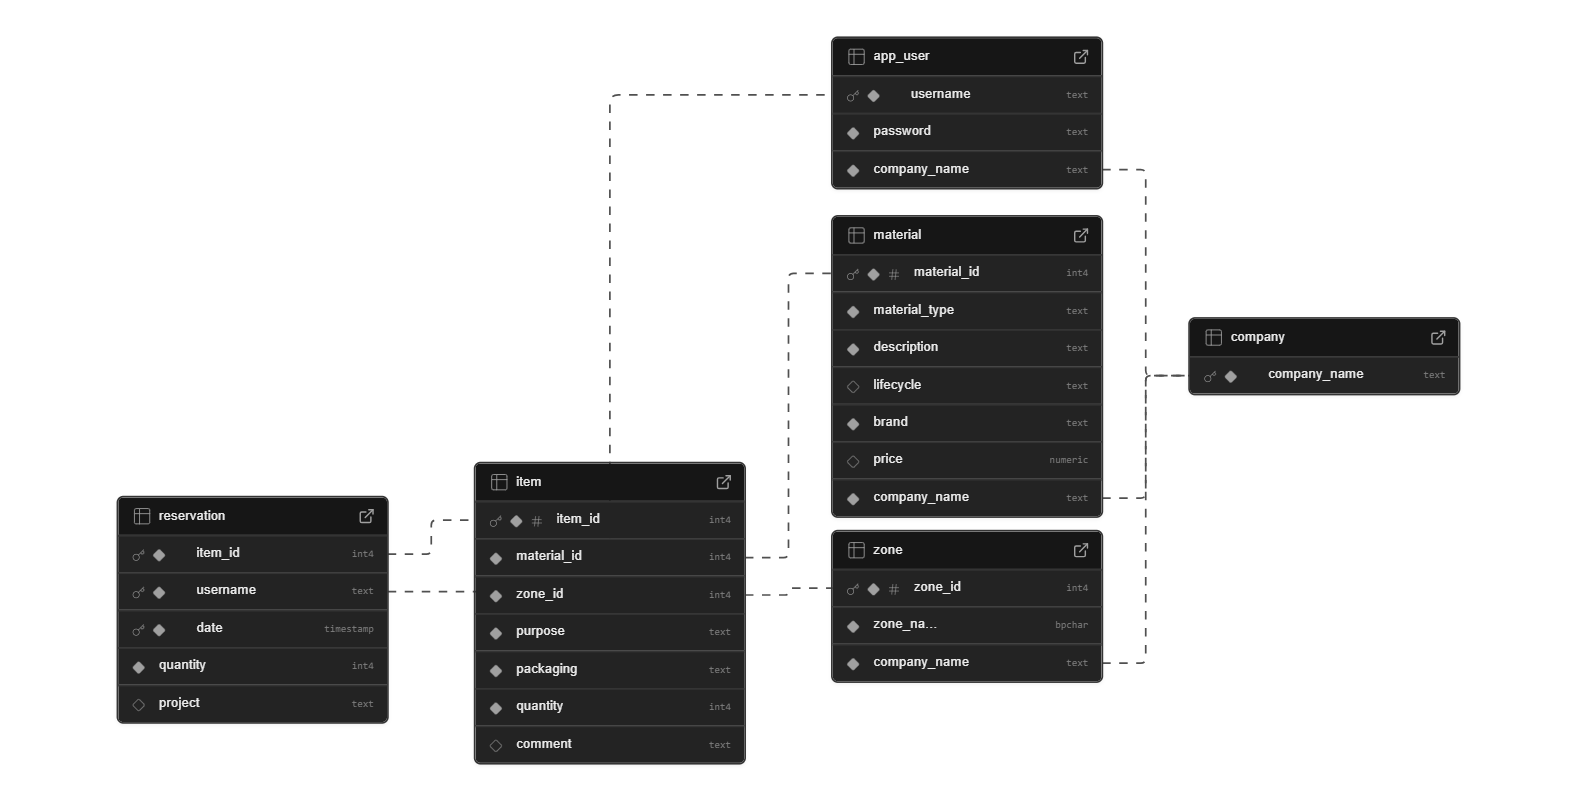
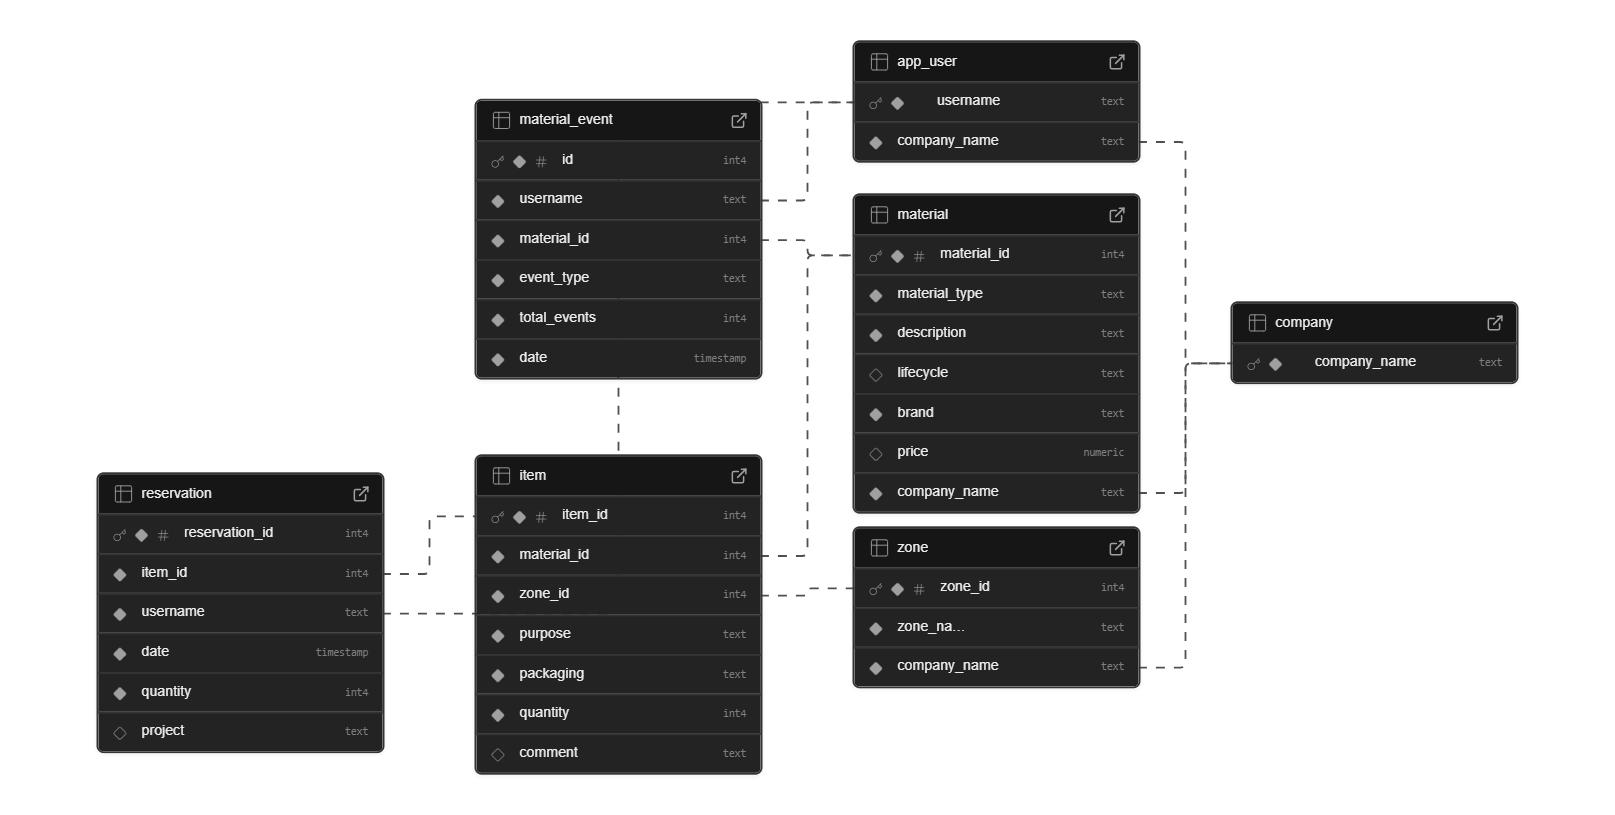
Ilyan (deel 1)

Changed region(s): [[0.2796, 0.0312, 0.9632, 0.9675], [0.0311, 0.5618, 0.2486, 0.9363], [0.435, 0.8115, 0.4661, 0.8427]]

diff --git a/app/templates/inventory.html b/app/templates/inventory.html
@@ -192,53 +192,34 @@
                 {# --- Header variations depending on context --- #}
 
                 {% if manual_items_view %}
-                    {# Manual material view (or brand+type search)#}
+                    {# Manual material view (zodat niet in else:)#}
                     <h3 class="item-title">
-                        {{ item.material.brand }} — {{ item.material.material_type }}
                     </h3>
                 
-                {% elif search_brand_type %}
-                    {# brand+type search #}
+                {% elif search_brand %}
+                    {# brand search (want Brand open)#}
                     <h3 class="item-title">
                         {{ item.material.material_type }}
-                    </h3>
-
-                {% elif is_search and search_brand_only %}
-                    {# Search by BRAND only: title shows brand; on cards show TYPE as primary info #}
-                    <h3 class="item-title">
-                        {{ item.material.material_type }}
-                    </h3>
-
-                {% elif is_search and search_type_only %}
-                    {# Search by TYPE/DESC only: title shows type; on cards show BRAND as primary info #}
-                    <h3 class="item-title">
-                        {{ item.material.brand }} — {{ item.material.material_type }}
-                    </h3>
-
-                {% elif is_search and search_misc_filters_only %}
-                    {# Search by zone/lifecycle/purpose/packaging only: title Inventory;
-                    show Brand - Type on cards #}
-                    <h3 class="item-title">
-                        {{ item.material.brand }} — {{ item.material.material_type }}
                     </h3>
 
                 {% else %}
-                    {# Default fallback: show Brand — Type #}
                     <h3 class="item-title">
                         {{ item.material.brand }} — {{ item.material.material_type }}
                     </h3>
+                    <div class="item-subtitle-row">
+                        <p class="item-subtitle">
+                            {{ item.material.description }}
+                        </p>
+                    </div>
+
                 {% endif %}
 
-                <div class="item-subtitle-row">
-                    <p class="item-subtitle">
-                        {{ item.material.description }}
-                    </p>
+
                     {% if item.item_id in recently_changed_items %}
                     <span class="chip chip-changed" title="Recently changed">
                         Changed
                     </span>
                     {% endif %}
-                </div>
 
                 {# --- The standard meta row (always present) --- #}
                 <div class="item-meta-row item-meta-spacing">

diff --git a/app/templates/login.html b/app/templates/login.html
@@ -1,10 +1,12 @@
-<!DOCTYPE html>
+<!DOCTYPE html> 
 <html lang="en">
 <head>
     <meta charset="UTF-8">
     <meta name="viewport" content="width=device-width, initial-scale=1.0">
-    <title>Inloggen</title>
+    <title>Login</title>
     <style>
+        * {
+        box-sizing: border-box;}
         body {
             font-family: Arial, sans-serif;
             background: linear-gradient(135deg, #1b2735, #090a0f);
@@ -20,7 +22,7 @@
             border-radius: 15px;
             box-shadow: 0 8px 32px rgba(0,0,0,0.4);
             backdrop-filter: blur(10px);
-            width: 350px;
+            width: 400px;
         }
         h2 {
             text-align: center;
@@ -28,7 +30,7 @@
             font-weight: 300;
             letter-spacing: 1px;
         }
-        input[type="text"], input[type="password"] {
+        input[type="text"] {
             width: 100%;
             padding: 12px;
             margin: 8px 0 20px;
@@ -38,10 +40,11 @@
         button {
             width: 100%;
             padding: 12px;
+            margin: 8px 0 20px;
             border: none;
             background: #4cafef;
             color: white;
-            border-radius: 8px;
+            border-radius: 15px;
             cursor: pointer;
             font-size: 16px;
         }
@@ -66,7 +69,6 @@
 
     <form method="POST">
         <input type="text" name="username" placeholder="Username" required>
-        <input type="password" name="password" placeholder="Password" required>
         <button type="submit">Log in</button>
     </form>
 </div>

diff --git a/app/models.py b/app/models.py
@@ -21,11 +21,10 @@ class Company(db.Model):
         return f"<Company: {self.company_name}>"
 
 
-class User(db.Model):
+class User(db.Model): #'Setting a password is not required', eigen inpmlemenatie van bedrijf via Microsoft
     __tablename__ = 'app_user'  # 'user' is een gereserveerd woord in SQL
 
-    username = db.Column(db.String, primary_key=True)
-    password = db.Column(db.String, nullable=False)
+    username = db.Column(db.String, primary_key=True) #PK want eigen aan bedrijf (bv. frederic.de_haes@primetals.com)
     company_name = db.Column(db.String, db.ForeignKey('company.company_name', ondelete="CASCADE", onupdate="CASCADE"), nullable=False)
 
     reservations = db.relationship('Reservation', backref='user', lazy=True)
@@ -37,9 +36,9 @@ class User(db.Model):
 
 
 class Material(db.Model):
-    material_id = db.Column(db.Integer, primary_key=True, nullable=False) #GENERATED BY DEFAULT AS IDENTITY (SQL)
+    material_id = db.Column(db.Integer, primary_key=True) #GENERATED BY DEFAULT AS IDENTITY (SQL)
     material_type = db.Column(db.String, nullable=False)
-    description = db.Column(db.String, nullable=False)
+    description = db.Column(db.Text, nullable=False) #NIET nullable
     brand = db.Column(db.String, nullable=False)
     price = db.Column(db.Float) #Float ipv. Numeric (SQL), zoals assistent
     lifecycle = db.Column(db.String)
@@ -47,19 +46,19 @@ class Material(db.Model):
 
     #contraints toevoegen
     __table_args__ = (
-        db.UniqueConstraint('company_name','material_type', 'description', name='UC1'), #zelfde materiaal mag bij ander bedrijf opnieuw bestaan
+        db.UniqueConstraint('company_name','material_type', 'brand', name='UC1'), #zelfde materiaal mag bij ander bedrijf opnieuw bestaan
         )
 
     items = db.relationship('Item', backref='material', lazy=True)
     material_events = db.relationship('MaterialEvent', backref='material', lazy=True)
 
     def __repr__(self):
-        return f"<Material_ID= {self.material_id}, type= {self.material_type}>" #geen 'description' want vaak te lang
+        return f"<ID= {self.material_id}: brand={self.brand} and type={self.material_type}>" #geen 'description' want vaak te lang
 
 
 class Zone(db.Model):
-    zone_id = db.Column(db.Integer, primary_key=True, autoincrement=True)  # GENERATED BY DEFAULT AS IDENTITY (SQL)
-    zone_name = db.Column(db.String(3), nullable=False)
+    zone_id = db.Column(db.Integer, primary_key=True)  # GENERATED BY DEFAULT AS IDENTITY (SQL)
+    zone_name = db.Column(db.String, nullable=False)
     company_name = db.Column(db.String, db.ForeignKey('company.company_name', ondelete="CASCADE", onupdate="CASCADE"), nullable=False)
 
     __table_args__ = (
@@ -73,13 +72,13 @@ class Zone(db.Model):
 
 
 class Item(db.Model):
-    item_id = db.Column(db.Integer, primary_key=True, autoincrement=True) #GENERATED BY DEFAULT AS IDENTITY (SQL)
+    item_id = db.Column(db.Integer, primary_key=True) #GENERATED BY DEFAULT AS IDENTITY (SQL)
     material_id = db.Column(db.Integer, db.ForeignKey('material.material_id', ondelete="CASCADE", onupdate="CASCADE"), nullable=False)
     zone_id = db.Column(db.Integer, db.ForeignKey('zone.zone_id', ondelete="CASCADE", onupdate="CASCADE"), nullable=False)
     purpose = db.Column(db.Enum('keep', 'sell', 'dispose', name='purpose_enum'), nullable=False)
     packaging = db.Column(db.Enum('open', 'closed', 'none', name='packaging_enum'), nullable=False)
     quantity = db.Column(db.Integer, nullable=False)
-    comment = db.Column(db.String)
+    comment = db.Column(db.Text) #zodat je lange tekst kan opslaan
 
     __table_args__ = (
         db.UniqueConstraint('material_id', 'zone_id', 'purpose', 'packaging', name='UC3'),
@@ -88,7 +87,7 @@ class Item(db.Model):
     reservations = db.relationship('Reservation', backref='item', lazy=True)
 
     def __repr__(self):
-        return f"<Item_ID={self.item_id}, material_ID={self.material_id}>"
+        return f"<Item_ID={self.item_id}>"
 
 
 class Reservation(db.Model):
@@ -112,7 +111,7 @@ class MaterialEvent(db.Model):
     username = db.Column(db.String, db.ForeignKey('app_user.username', ondelete="CASCADE", onupdate="CASCADE"), nullable=False,)
     material_id = db.Column(db.Integer, db.ForeignKey('material.material_id', ondelete="CASCADE", onupdate="CASCADE"), nullable=False)
     event_type = db.Column(db.Enum('view','reserve', name='material_event_type'), nullable=False)
-    total_events = db.Column(db.Integer, nullable=False, server_default='0')
+    total_events = db.Column(db.Integer, nullable=False, server_default=db.text("0"))
     date = db.Column(db.DateTime, server_default=db.func.current_timestamp(), nullable=False)
 
     #geen relationship nodig, want we navigaties al mogelijk via backref

diff --git a/app/routes.py b/app/routes.py
@@ -6,7 +6,6 @@ from sqlalchemy.orm import joinedload
 
 from .models import db, Material, Zone, Item, Reservation, User, Company, MaterialEvent
 from flask import session
-from werkzeug.security import generate_password_hash, check_password_hash
 from urllib.parse import urlparse
 
 
@@ -78,13 +77,12 @@ def login():
 
     if request.method == "POST":
         username = request.form.get("username")
-        password = request.form.get("password")
 
         # gebruiker opzoeken
         user = User.query.filter_by(username=username).first()
 
         # user bestaat niet of wachtwoord fout (plain text vergelijking)
-        if not user or user.password != password:
+        if not user:
             return render_template("login.html", error="Invalid login")
 
         # alles ok → sessie vullen
@@ -519,15 +517,9 @@ def inventory():
     if (not is_search and active_material_id) or active_material:
         manual_items_view = True
     
-    search_brand_type = False
-    if is_search and q_brand and (q_type or q_desc):
-        search_brand_type = True
-
-    # search variants for item-card decisions
-    search_brand_only = is_search and q_brand and not (q_type or q_desc)
-    search_type_only = is_search and (q_type or q_desc) and not q_brand
-    search_misc_filters_only = is_search and not (q_brand or q_type or q_desc) and any([q_zone, q_lifecycle, filter_purpose, filter_packaging])
-
+    search_brand = False
+    if is_search and q_brand:
+        search_brand = True
     
 
     return render_template(
@@ -555,10 +547,8 @@ def inventory():
         show_for_you=show_for_you,
         is_search=is_search,
         manual_items_view=manual_items_view,
-        search_brand_type =search_brand_type,
-        search_brand_only=search_brand_only,
-        search_type_only=search_type_only,
-        search_misc_filters_only=search_misc_filters_only,
+        search_brand =search_brand,
+
         page_title=page_title,
         recently_changed_items=recently_changed_items,
     )
